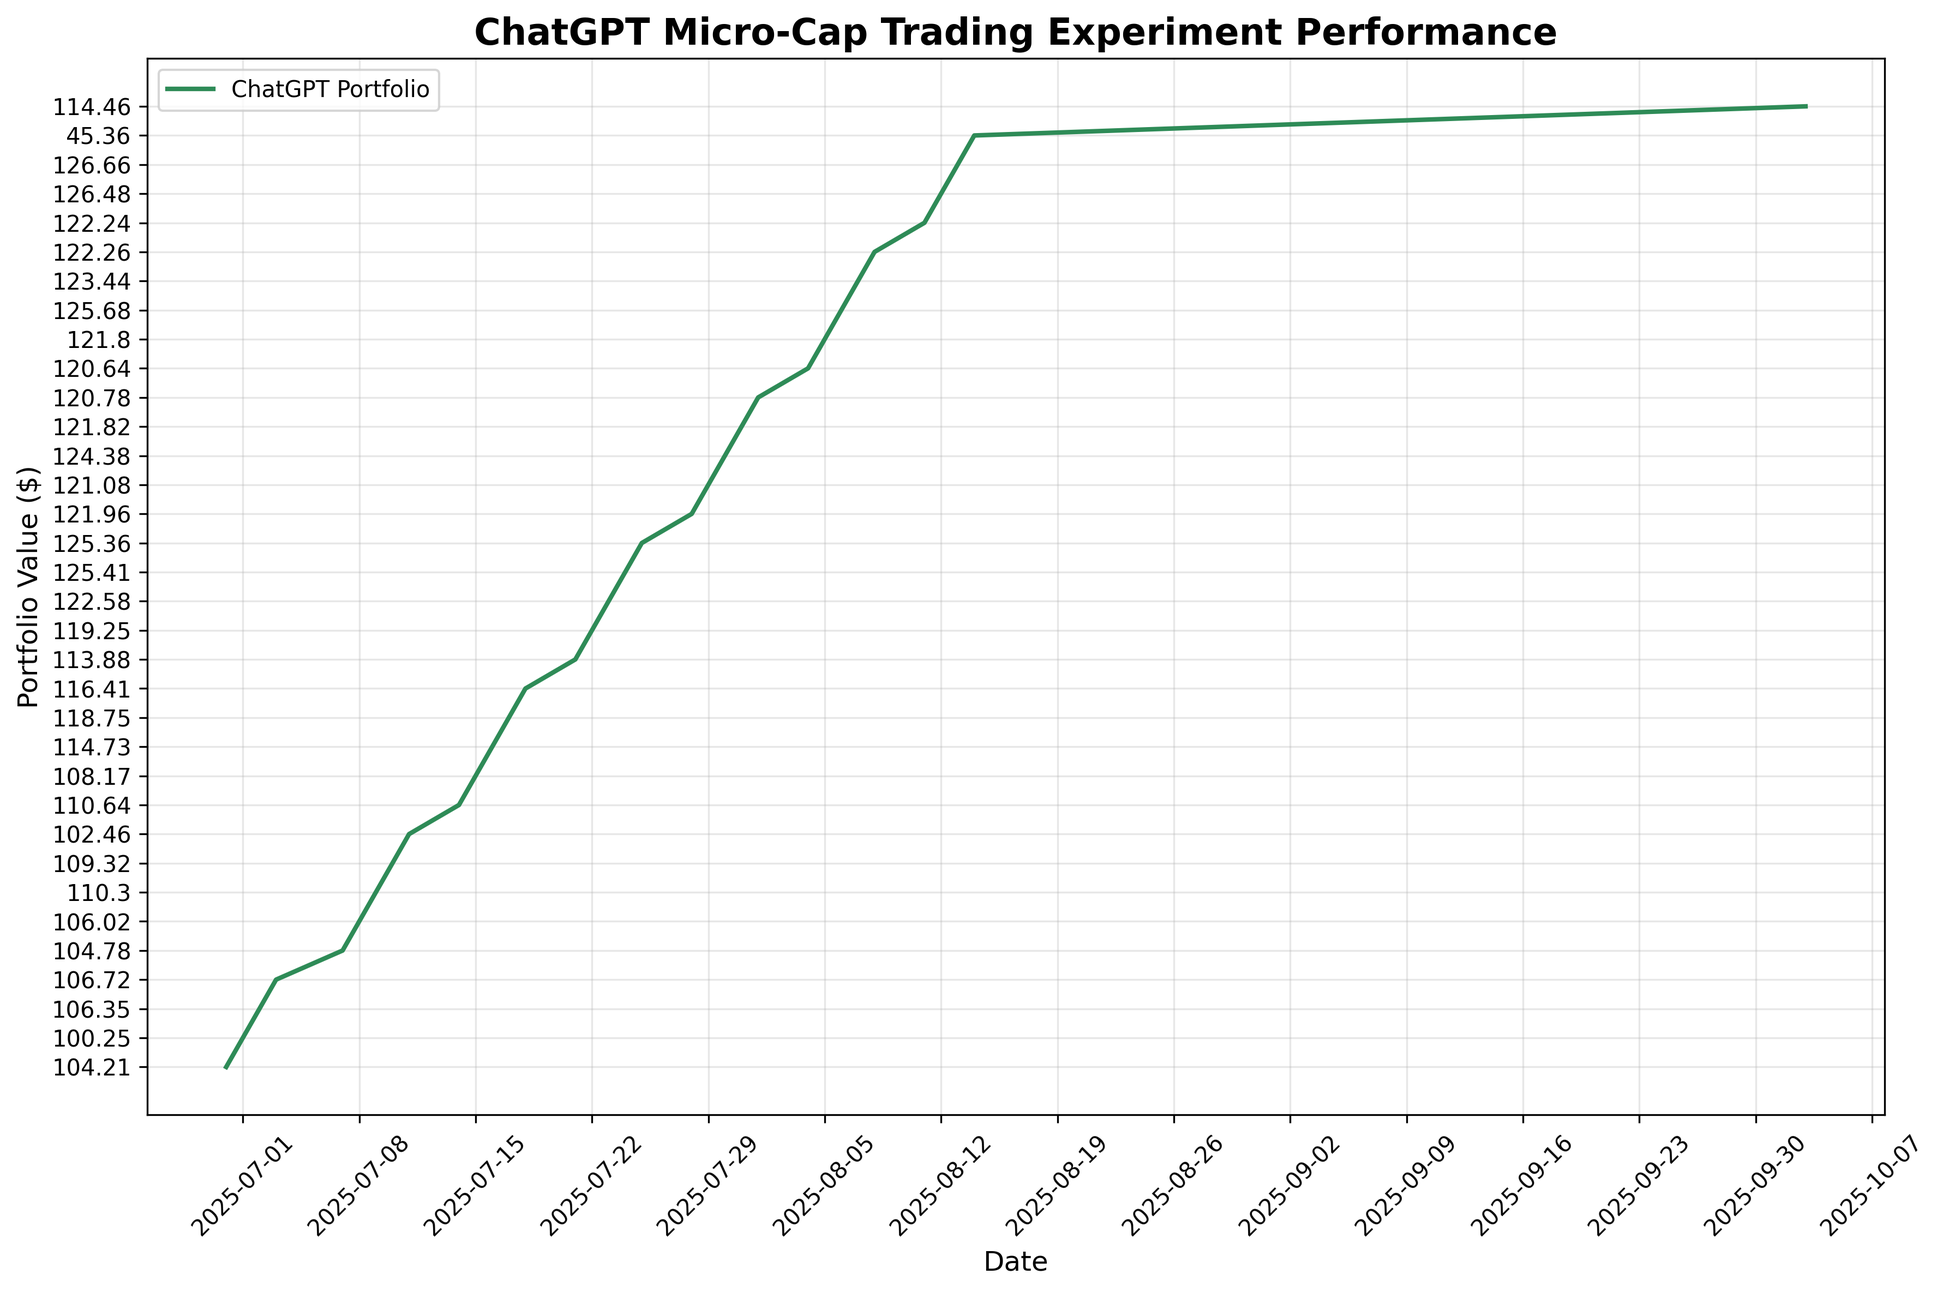
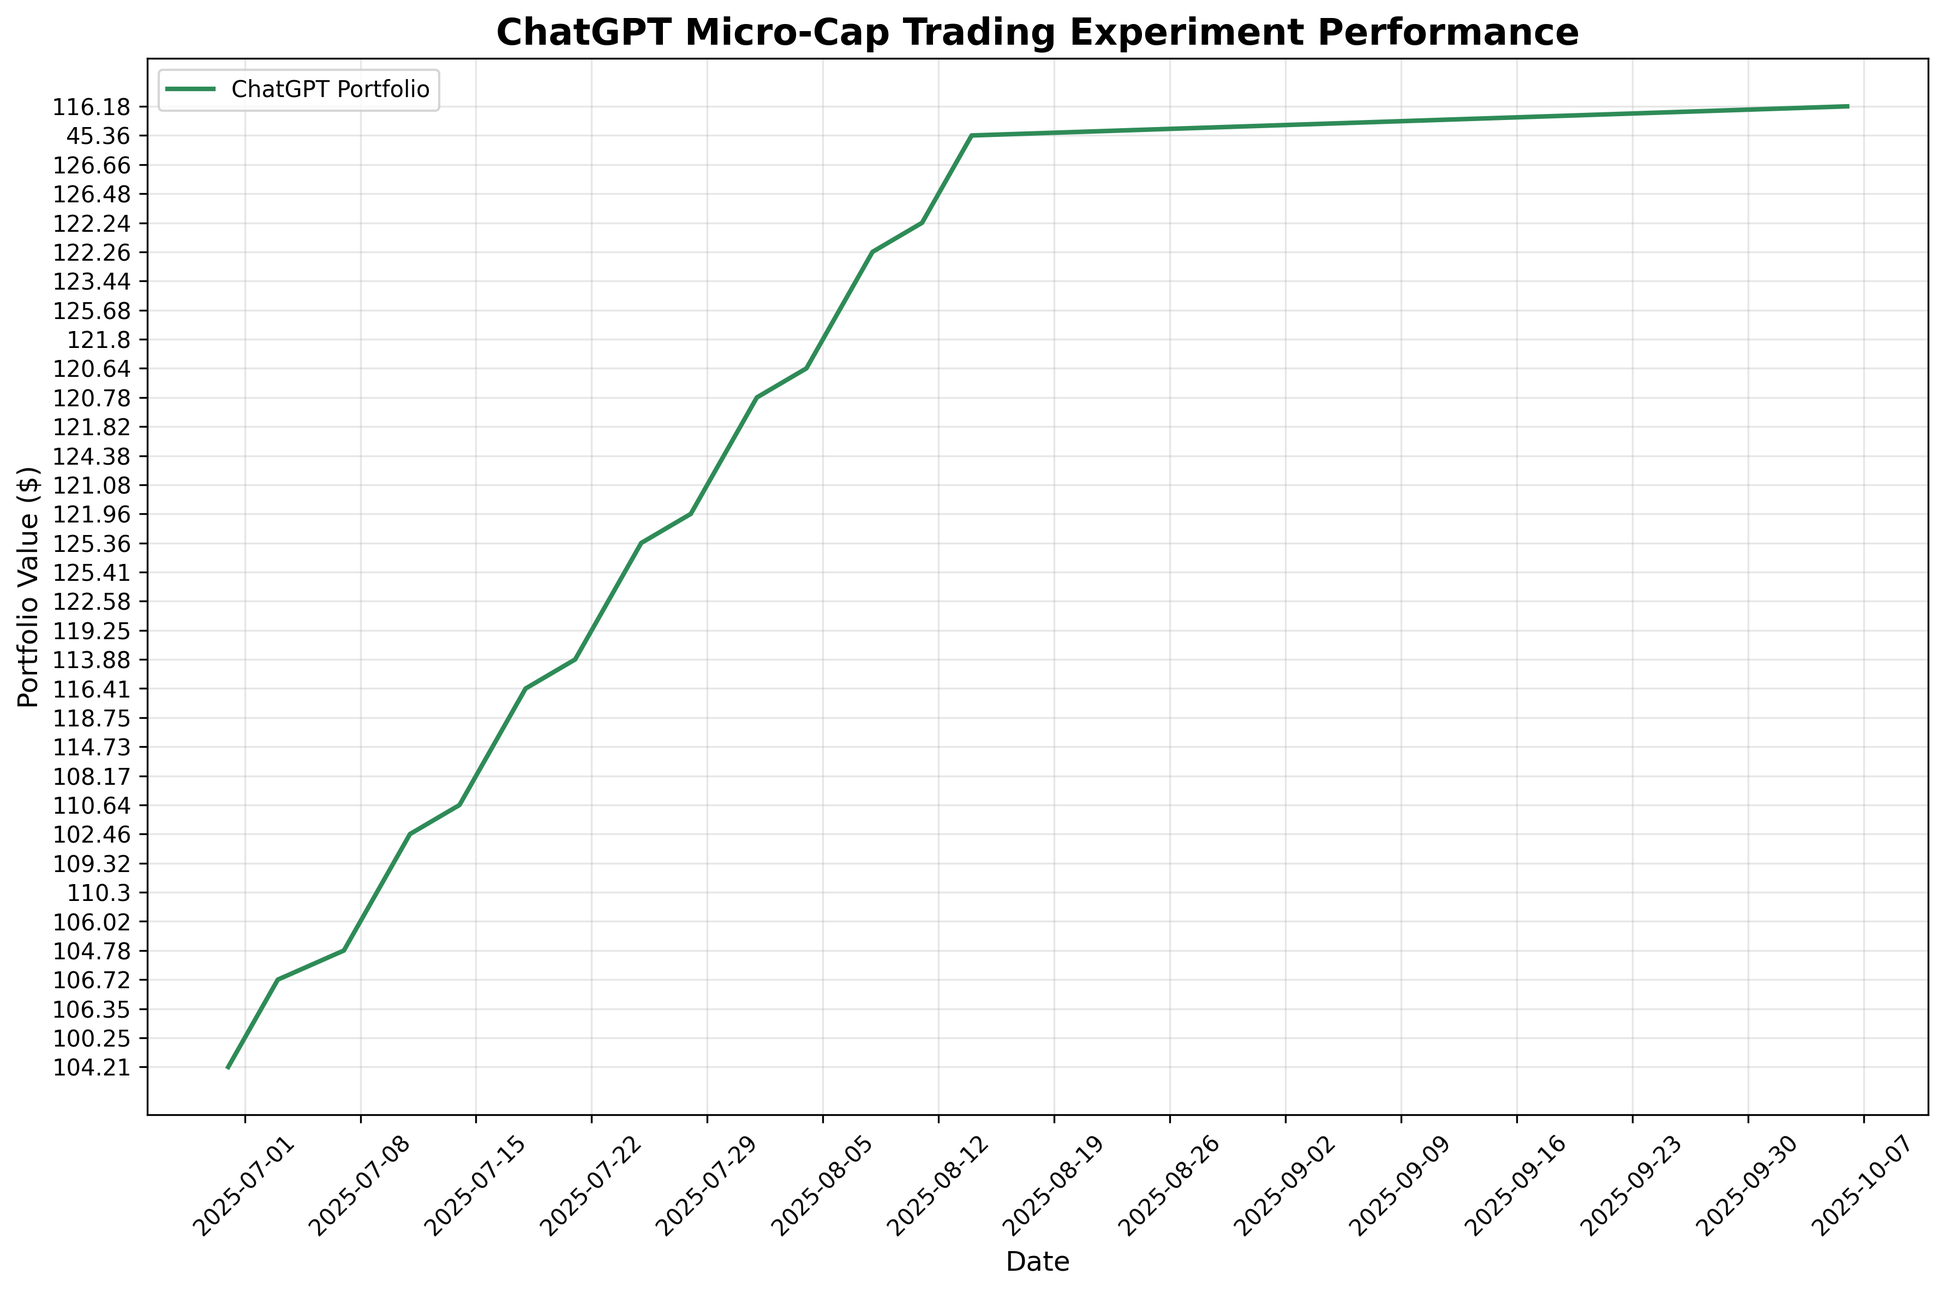
deploy: e15cad030d70fb3fbb51f9df6e22fa70c2f175c0

diff --git a/index.html b/index.html
@@ -105,7 +105,7 @@
                 <div class="stat-label">Total Trades</div>
             </div>
             <div class="stat-card">
-                <div class="stat-value" id="last-updated">2025-10-03</div>
+                <div class="stat-value" id="last-updated">2025-10-06</div>
                 <div class="stat-label">Last Updated</div>
             </div>
         </div>
@@ -160,7 +160,7 @@
     
     <script>
         // Portfolio data
-        const portfolioData = JSON.parse("[{&quot;Date&quot;: &quot;2025-08-11&quot;, &quot;Ticker&quot;: &quot;ABEO&quot;, &quot;Shares&quot;: 4.0, &quot;Buy Price&quot;: 5.77, &quot;Cost Basis&quot;: 23.08, &quot;Stop Loss&quot;: 4.9, &quot;Current Price&quot;: 6.28, &quot;Total Value&quot;: 25.12, &quot;PnL&quot;: 2.04, &quot;Action&quot;: &quot;HOLD&quot;, &quot;Cash Balance&quot;: NaN, &quot;Total Equity&quot;: NaN}, {&quot;Date&quot;: &quot;2025-08-11&quot;, &quot;Ticker&quot;: &quot;ACTU&quot;, &quot;Shares&quot;: 6.0, &quot;Buy Price&quot;: 5.75, &quot;Cost Basis&quot;: 34.5, &quot;Stop Loss&quot;: 4.89, &quot;Current Price&quot;: 8.01, &quot;Total Value&quot;: 48.06, &quot;PnL&quot;: 13.56, &quot;Action&quot;: &quot;HOLD&quot;, &quot;Cash Balance&quot;: NaN, &quot;Total Equity&quot;: NaN}, {&quot;Date&quot;: &quot;2025-08-11&quot;, &quot;Ticker&quot;: &quot;ESPR&quot;, &quot;Shares&quot;: 2.0, &quot;Buy Price&quot;: 1.91, &quot;Cost Basis&quot;: 3.82, &quot;Stop Loss&quot;: 1.6, &quot;Current Price&quot;: 1.85, &quot;Total Value&quot;: 3.7, &quot;PnL&quot;: -0.12, &quot;Action&quot;: &quot;HOLD&quot;, &quot;Cash Balance&quot;: NaN, &quot;Total Equity&quot;: NaN}, {&quot;Date&quot;: &quot;2025-08-11&quot;, &quot;Ticker&quot;: &quot;TOTAL&quot;, &quot;Shares&quot;: NaN, &quot;Buy Price&quot;: NaN, &quot;Cost Basis&quot;: NaN, &quot;Stop Loss&quot;: NaN, &quot;Current Price&quot;: NaN, &quot;Total Value&quot;: 76.88, &quot;PnL&quot;: 15.48, &quot;Action&quot;: NaN, &quot;Cash Balance&quot;: 45.36, &quot;Total Equity&quot;: &quot;122.24&quot;}, {&quot;Date&quot;: &quot;2025-08-12&quot;, &quot;Ticker&quot;: &quot;ABEO&quot;, &quot;Shares&quot;: 4.0, &quot;Buy Price&quot;: 5.77, &quot;Cost Basis&quot;: 23.08, &quot;Stop Loss&quot;: 4.9, &quot;Current Price&quot;: 6.38, &quot;Total Value&quot;: 25.52, &quot;PnL&quot;: 2.44, &quot;Action&quot;: &quot;HOLD&quot;, &quot;Cash Balance&quot;: NaN, &quot;Total Equity&quot;: NaN}, {&quot;Date&quot;: &quot;2025-08-12&quot;, &quot;Ticker&quot;: &quot;ACTU&quot;, &quot;Shares&quot;: 6.0, &quot;Buy Price&quot;: 5.75, &quot;Cost Basis&quot;: 34.5, &quot;Stop Loss&quot;: 4.89, &quot;Current Price&quot;: 8.67, &quot;Total Value&quot;: 52.02, &quot;PnL&quot;: 17.52, &quot;Action&quot;: &quot;HOLD&quot;, &quot;Cash Balance&quot;: NaN, &quot;Total Equity&quot;: NaN}, {&quot;Date&quot;: &quot;2025-08-12&quot;, &quot;Ticker&quot;: &quot;ESPR&quot;, &quot;Shares&quot;: 2.0, &quot;Buy Price&quot;: 1.91, &quot;Cost Basis&quot;: 3.82, &quot;Stop Loss&quot;: 1.6, &quot;Current Price&quot;: 1.79, &quot;Total Value&quot;: 3.58, &quot;PnL&quot;: -0.24, &quot;Action&quot;: &quot;HOLD&quot;, &quot;Cash Balance&quot;: NaN, &quot;Total Equity&quot;: NaN}, {&quot;Date&quot;: &quot;2025-08-12&quot;, &quot;Ticker&quot;: &quot;TOTAL&quot;, &quot;Shares&quot;: NaN, &quot;Buy Price&quot;: NaN, &quot;Cost Basis&quot;: NaN, &quot;Stop Loss&quot;: NaN, &quot;Current Price&quot;: NaN, &quot;Total Value&quot;: 81.12, &quot;PnL&quot;: 19.72, &quot;Action&quot;: NaN, &quot;Cash Balance&quot;: 45.36, &quot;Total Equity&quot;: &quot;126.48&quot;}, {&quot;Date&quot;: &quot;2025-08-13&quot;, &quot;Ticker&quot;: &quot;ABEO&quot;, &quot;Shares&quot;: 4.0, &quot;Buy Price&quot;: 5.77, &quot;Cost Basis&quot;: 23.08, &quot;Stop Loss&quot;: 4.9, &quot;Current Price&quot;: 6.56, &quot;Total Value&quot;: 26.24, &quot;PnL&quot;: 3.16, &quot;Action&quot;: &quot;HOLD&quot;, &quot;Cash Balance&quot;: NaN, &quot;Total Equity&quot;: NaN}, {&quot;Date&quot;: &quot;2025-08-13&quot;, &quot;Ticker&quot;: &quot;ACTU&quot;, &quot;Shares&quot;: 6.0, &quot;Buy Price&quot;: 5.75, &quot;Cost Basis&quot;: 34.5, &quot;Stop Loss&quot;: 4.89, &quot;Current Price&quot;: 8.53, &quot;Total Value&quot;: 51.18, &quot;PnL&quot;: 16.68, &quot;Action&quot;: &quot;HOLD&quot;, &quot;Cash Balance&quot;: NaN, &quot;Total Equity&quot;: NaN}, {&quot;Date&quot;: &quot;2025-08-13&quot;, &quot;Ticker&quot;: &quot;ESPR&quot;, &quot;Shares&quot;: 2.0, &quot;Buy Price&quot;: 1.91, &quot;Cost Basis&quot;: 3.82, &quot;Stop Loss&quot;: 1.6, &quot;Current Price&quot;: 1.94, &quot;Total Value&quot;: 3.88, &quot;PnL&quot;: 0.06, &quot;Action&quot;: &quot;HOLD&quot;, &quot;Cash Balance&quot;: NaN, &quot;Total Equity&quot;: NaN}, {&quot;Date&quot;: &quot;2025-08-13&quot;, &quot;Ticker&quot;: &quot;TOTAL&quot;, &quot;Shares&quot;: NaN, &quot;Buy Price&quot;: NaN, &quot;Cost Basis&quot;: NaN, &quot;Stop Loss&quot;: NaN, &quot;Current Price&quot;: NaN, &quot;Total Value&quot;: 81.3, &quot;PnL&quot;: 19.9, &quot;Action&quot;: NaN, &quot;Cash Balance&quot;: 45.36, &quot;Total Equity&quot;: &quot;126.66&quot;}, {&quot;Date&quot;: &quot;2025-08-14&quot;, &quot;Ticker&quot;: &quot;ABEO&quot;, &quot;Shares&quot;: 4.0, &quot;Buy Price&quot;: 5.77, &quot;Cost Basis&quot;: 23.08, &quot;Stop Loss&quot;: 4.9, &quot;Current Price&quot;: NaN, &quot;Total Value&quot;: NaN, &quot;PnL&quot;: NaN, &quot;Action&quot;: &quot;NO DATA&quot;, &quot;Cash Balance&quot;: NaN, &quot;Total Equity&quot;: NaN}, {&quot;Date&quot;: &quot;2025-08-14&quot;, &quot;Ticker&quot;: &quot;ACTU&quot;, &quot;Shares&quot;: 6.0, &quot;Buy Price&quot;: 5.75, &quot;Cost Basis&quot;: 34.5, &quot;Stop Loss&quot;: 4.89, &quot;Current Price&quot;: NaN, &quot;Total Value&quot;: NaN, &quot;PnL&quot;: NaN, &quot;Action&quot;: &quot;NO DATA&quot;, &quot;Cash Balance&quot;: NaN, &quot;Total Equity&quot;: NaN}, {&quot;Date&quot;: &quot;2025-08-14&quot;, &quot;Ticker&quot;: &quot;ESPR&quot;, &quot;Shares&quot;: 2.0, &quot;Buy Price&quot;: 1.91, &quot;Cost Basis&quot;: 3.82, &quot;Stop Loss&quot;: 1.6, &quot;Current Price&quot;: NaN, &quot;Total Value&quot;: NaN, &quot;PnL&quot;: NaN, &quot;Action&quot;: &quot;NO DATA&quot;, &quot;Cash Balance&quot;: NaN, &quot;Total Equity&quot;: NaN}, {&quot;Date&quot;: &quot;2025-08-14&quot;, &quot;Ticker&quot;: &quot;TOTAL&quot;, &quot;Shares&quot;: NaN, &quot;Buy Price&quot;: NaN, &quot;Cost Basis&quot;: NaN, &quot;Stop Loss&quot;: NaN, &quot;Current Price&quot;: NaN, &quot;Total Value&quot;: 0.0, &quot;PnL&quot;: 0.0, &quot;Action&quot;: NaN, &quot;Cash Balance&quot;: 45.36, &quot;Total Equity&quot;: &quot;45.36&quot;}, {&quot;Date&quot;: &quot;2025-10-03&quot;, &quot;Ticker&quot;: &quot;ABEO&quot;, &quot;Shares&quot;: 4.0, &quot;Buy Price&quot;: 5.77, &quot;Cost Basis&quot;: 23.08, &quot;Stop Loss&quot;: 4.9, &quot;Current Price&quot;: 5.38, &quot;Total Value&quot;: 21.52, &quot;PnL&quot;: -1.56, &quot;Action&quot;: &quot;HOLD&quot;, &quot;Cash Balance&quot;: NaN, &quot;Total Equity&quot;: NaN}, {&quot;Date&quot;: &quot;2025-10-03&quot;, &quot;Ticker&quot;: &quot;ACTU&quot;, &quot;Shares&quot;: 6.0, &quot;Buy Price&quot;: 5.75, &quot;Cost Basis&quot;: 34.5, &quot;Stop Loss&quot;: 4.89, &quot;Current Price&quot;: 6.86, &quot;Total Value&quot;: 41.16, &quot;PnL&quot;: 6.66, &quot;Action&quot;: &quot;HOLD&quot;, &quot;Cash Balance&quot;: NaN, &quot;Total Equity&quot;: NaN}, {&quot;Date&quot;: &quot;2025-10-03&quot;, &quot;Ticker&quot;: &quot;ESPR&quot;, &quot;Shares&quot;: 2.0, &quot;Buy Price&quot;: 1.91, &quot;Cost Basis&quot;: 3.82, &quot;Stop Loss&quot;: 1.6, &quot;Current Price&quot;: 3.21, &quot;Total Value&quot;: 6.42, &quot;PnL&quot;: 2.6, &quot;Action&quot;: &quot;HOLD&quot;, &quot;Cash Balance&quot;: NaN, &quot;Total Equity&quot;: NaN}, {&quot;Date&quot;: &quot;2025-10-03&quot;, &quot;Ticker&quot;: &quot;TOTAL&quot;, &quot;Shares&quot;: NaN, &quot;Buy Price&quot;: NaN, &quot;Cost Basis&quot;: NaN, &quot;Stop Loss&quot;: NaN, &quot;Current Price&quot;: NaN, &quot;Total Value&quot;: 69.1, &quot;PnL&quot;: 7.7, &quot;Action&quot;: NaN, &quot;Cash Balance&quot;: 45.36, &quot;Total Equity&quot;: &quot;114.46&quot;}]");
+        const portfolioData = JSON.parse("[{&quot;Date&quot;: &quot;2025-08-11&quot;, &quot;Ticker&quot;: &quot;ABEO&quot;, &quot;Shares&quot;: 4.0, &quot;Buy Price&quot;: 5.77, &quot;Cost Basis&quot;: 23.08, &quot;Stop Loss&quot;: 4.9, &quot;Current Price&quot;: 6.28, &quot;Total Value&quot;: 25.12, &quot;PnL&quot;: 2.04, &quot;Action&quot;: &quot;HOLD&quot;, &quot;Cash Balance&quot;: NaN, &quot;Total Equity&quot;: NaN}, {&quot;Date&quot;: &quot;2025-08-11&quot;, &quot;Ticker&quot;: &quot;ACTU&quot;, &quot;Shares&quot;: 6.0, &quot;Buy Price&quot;: 5.75, &quot;Cost Basis&quot;: 34.5, &quot;Stop Loss&quot;: 4.89, &quot;Current Price&quot;: 8.01, &quot;Total Value&quot;: 48.06, &quot;PnL&quot;: 13.56, &quot;Action&quot;: &quot;HOLD&quot;, &quot;Cash Balance&quot;: NaN, &quot;Total Equity&quot;: NaN}, {&quot;Date&quot;: &quot;2025-08-11&quot;, &quot;Ticker&quot;: &quot;ESPR&quot;, &quot;Shares&quot;: 2.0, &quot;Buy Price&quot;: 1.91, &quot;Cost Basis&quot;: 3.82, &quot;Stop Loss&quot;: 1.6, &quot;Current Price&quot;: 1.85, &quot;Total Value&quot;: 3.7, &quot;PnL&quot;: -0.12, &quot;Action&quot;: &quot;HOLD&quot;, &quot;Cash Balance&quot;: NaN, &quot;Total Equity&quot;: NaN}, {&quot;Date&quot;: &quot;2025-08-11&quot;, &quot;Ticker&quot;: &quot;TOTAL&quot;, &quot;Shares&quot;: NaN, &quot;Buy Price&quot;: NaN, &quot;Cost Basis&quot;: NaN, &quot;Stop Loss&quot;: NaN, &quot;Current Price&quot;: NaN, &quot;Total Value&quot;: 76.88, &quot;PnL&quot;: 15.48, &quot;Action&quot;: NaN, &quot;Cash Balance&quot;: 45.36, &quot;Total Equity&quot;: &quot;122.24&quot;}, {&quot;Date&quot;: &quot;2025-08-12&quot;, &quot;Ticker&quot;: &quot;ABEO&quot;, &quot;Shares&quot;: 4.0, &quot;Buy Price&quot;: 5.77, &quot;Cost Basis&quot;: 23.08, &quot;Stop Loss&quot;: 4.9, &quot;Current Price&quot;: 6.38, &quot;Total Value&quot;: 25.52, &quot;PnL&quot;: 2.44, &quot;Action&quot;: &quot;HOLD&quot;, &quot;Cash Balance&quot;: NaN, &quot;Total Equity&quot;: NaN}, {&quot;Date&quot;: &quot;2025-08-12&quot;, &quot;Ticker&quot;: &quot;ACTU&quot;, &quot;Shares&quot;: 6.0, &quot;Buy Price&quot;: 5.75, &quot;Cost Basis&quot;: 34.5, &quot;Stop Loss&quot;: 4.89, &quot;Current Price&quot;: 8.67, &quot;Total Value&quot;: 52.02, &quot;PnL&quot;: 17.52, &quot;Action&quot;: &quot;HOLD&quot;, &quot;Cash Balance&quot;: NaN, &quot;Total Equity&quot;: NaN}, {&quot;Date&quot;: &quot;2025-08-12&quot;, &quot;Ticker&quot;: &quot;ESPR&quot;, &quot;Shares&quot;: 2.0, &quot;Buy Price&quot;: 1.91, &quot;Cost Basis&quot;: 3.82, &quot;Stop Loss&quot;: 1.6, &quot;Current Price&quot;: 1.79, &quot;Total Value&quot;: 3.58, &quot;PnL&quot;: -0.24, &quot;Action&quot;: &quot;HOLD&quot;, &quot;Cash Balance&quot;: NaN, &quot;Total Equity&quot;: NaN}, {&quot;Date&quot;: &quot;2025-08-12&quot;, &quot;Ticker&quot;: &quot;TOTAL&quot;, &quot;Shares&quot;: NaN, &quot;Buy Price&quot;: NaN, &quot;Cost Basis&quot;: NaN, &quot;Stop Loss&quot;: NaN, &quot;Current Price&quot;: NaN, &quot;Total Value&quot;: 81.12, &quot;PnL&quot;: 19.72, &quot;Action&quot;: NaN, &quot;Cash Balance&quot;: 45.36, &quot;Total Equity&quot;: &quot;126.48&quot;}, {&quot;Date&quot;: &quot;2025-08-13&quot;, &quot;Ticker&quot;: &quot;ABEO&quot;, &quot;Shares&quot;: 4.0, &quot;Buy Price&quot;: 5.77, &quot;Cost Basis&quot;: 23.08, &quot;Stop Loss&quot;: 4.9, &quot;Current Price&quot;: 6.56, &quot;Total Value&quot;: 26.24, &quot;PnL&quot;: 3.16, &quot;Action&quot;: &quot;HOLD&quot;, &quot;Cash Balance&quot;: NaN, &quot;Total Equity&quot;: NaN}, {&quot;Date&quot;: &quot;2025-08-13&quot;, &quot;Ticker&quot;: &quot;ACTU&quot;, &quot;Shares&quot;: 6.0, &quot;Buy Price&quot;: 5.75, &quot;Cost Basis&quot;: 34.5, &quot;Stop Loss&quot;: 4.89, &quot;Current Price&quot;: 8.53, &quot;Total Value&quot;: 51.18, &quot;PnL&quot;: 16.68, &quot;Action&quot;: &quot;HOLD&quot;, &quot;Cash Balance&quot;: NaN, &quot;Total Equity&quot;: NaN}, {&quot;Date&quot;: &quot;2025-08-13&quot;, &quot;Ticker&quot;: &quot;ESPR&quot;, &quot;Shares&quot;: 2.0, &quot;Buy Price&quot;: 1.91, &quot;Cost Basis&quot;: 3.82, &quot;Stop Loss&quot;: 1.6, &quot;Current Price&quot;: 1.94, &quot;Total Value&quot;: 3.88, &quot;PnL&quot;: 0.06, &quot;Action&quot;: &quot;HOLD&quot;, &quot;Cash Balance&quot;: NaN, &quot;Total Equity&quot;: NaN}, {&quot;Date&quot;: &quot;2025-08-13&quot;, &quot;Ticker&quot;: &quot;TOTAL&quot;, &quot;Shares&quot;: NaN, &quot;Buy Price&quot;: NaN, &quot;Cost Basis&quot;: NaN, &quot;Stop Loss&quot;: NaN, &quot;Current Price&quot;: NaN, &quot;Total Value&quot;: 81.3, &quot;PnL&quot;: 19.9, &quot;Action&quot;: NaN, &quot;Cash Balance&quot;: 45.36, &quot;Total Equity&quot;: &quot;126.66&quot;}, {&quot;Date&quot;: &quot;2025-08-14&quot;, &quot;Ticker&quot;: &quot;ABEO&quot;, &quot;Shares&quot;: 4.0, &quot;Buy Price&quot;: 5.77, &quot;Cost Basis&quot;: 23.08, &quot;Stop Loss&quot;: 4.9, &quot;Current Price&quot;: NaN, &quot;Total Value&quot;: NaN, &quot;PnL&quot;: NaN, &quot;Action&quot;: &quot;NO DATA&quot;, &quot;Cash Balance&quot;: NaN, &quot;Total Equity&quot;: NaN}, {&quot;Date&quot;: &quot;2025-08-14&quot;, &quot;Ticker&quot;: &quot;ACTU&quot;, &quot;Shares&quot;: 6.0, &quot;Buy Price&quot;: 5.75, &quot;Cost Basis&quot;: 34.5, &quot;Stop Loss&quot;: 4.89, &quot;Current Price&quot;: NaN, &quot;Total Value&quot;: NaN, &quot;PnL&quot;: NaN, &quot;Action&quot;: &quot;NO DATA&quot;, &quot;Cash Balance&quot;: NaN, &quot;Total Equity&quot;: NaN}, {&quot;Date&quot;: &quot;2025-08-14&quot;, &quot;Ticker&quot;: &quot;ESPR&quot;, &quot;Shares&quot;: 2.0, &quot;Buy Price&quot;: 1.91, &quot;Cost Basis&quot;: 3.82, &quot;Stop Loss&quot;: 1.6, &quot;Current Price&quot;: NaN, &quot;Total Value&quot;: NaN, &quot;PnL&quot;: NaN, &quot;Action&quot;: &quot;NO DATA&quot;, &quot;Cash Balance&quot;: NaN, &quot;Total Equity&quot;: NaN}, {&quot;Date&quot;: &quot;2025-08-14&quot;, &quot;Ticker&quot;: &quot;TOTAL&quot;, &quot;Shares&quot;: NaN, &quot;Buy Price&quot;: NaN, &quot;Cost Basis&quot;: NaN, &quot;Stop Loss&quot;: NaN, &quot;Current Price&quot;: NaN, &quot;Total Value&quot;: 0.0, &quot;PnL&quot;: 0.0, &quot;Action&quot;: NaN, &quot;Cash Balance&quot;: 45.36, &quot;Total Equity&quot;: &quot;45.36&quot;}, {&quot;Date&quot;: &quot;2025-10-06&quot;, &quot;Ticker&quot;: &quot;ABEO&quot;, &quot;Shares&quot;: 4.0, &quot;Buy Price&quot;: 5.77, &quot;Cost Basis&quot;: 23.08, &quot;Stop Loss&quot;: 4.9, &quot;Current Price&quot;: 5.44, &quot;Total Value&quot;: 21.76, &quot;PnL&quot;: -1.32, &quot;Action&quot;: &quot;HOLD&quot;, &quot;Cash Balance&quot;: NaN, &quot;Total Equity&quot;: NaN}, {&quot;Date&quot;: &quot;2025-10-06&quot;, &quot;Ticker&quot;: &quot;ACTU&quot;, &quot;Shares&quot;: 6.0, &quot;Buy Price&quot;: 5.75, &quot;Cost Basis&quot;: 34.5, &quot;Stop Loss&quot;: 4.89, &quot;Current Price&quot;: 7.06, &quot;Total Value&quot;: 42.36, &quot;PnL&quot;: 7.86, &quot;Action&quot;: &quot;HOLD&quot;, &quot;Cash Balance&quot;: NaN, &quot;Total Equity&quot;: NaN}, {&quot;Date&quot;: &quot;2025-10-06&quot;, &quot;Ticker&quot;: &quot;ESPR&quot;, &quot;Shares&quot;: 2.0, &quot;Buy Price&quot;: 1.91, &quot;Cost Basis&quot;: 3.82, &quot;Stop Loss&quot;: 1.6, &quot;Current Price&quot;: 3.35, &quot;Total Value&quot;: 6.7, &quot;PnL&quot;: 2.88, &quot;Action&quot;: &quot;HOLD&quot;, &quot;Cash Balance&quot;: NaN, &quot;Total Equity&quot;: NaN}, {&quot;Date&quot;: &quot;2025-10-06&quot;, &quot;Ticker&quot;: &quot;TOTAL&quot;, &quot;Shares&quot;: NaN, &quot;Buy Price&quot;: NaN, &quot;Cost Basis&quot;: NaN, &quot;Stop Loss&quot;: NaN, &quot;Current Price&quot;: NaN, &quot;Total Value&quot;: 70.82, &quot;PnL&quot;: 9.42, &quot;Action&quot;: NaN, &quot;Cash Balance&quot;: 45.36, &quot;Total Equity&quot;: &quot;116.18&quot;}]");
         const tradeData = JSON.parse("[{&quot;Date&quot;: &quot;2025-07-07&quot;, &quot;Ticker&quot;: &quot;CSAI&quot;, &quot;Shares Bought&quot;: NaN, &quot;Buy Price&quot;: NaN, &quot;Cost Basis&quot;: 1.9, &quot;PnL&quot;: 5.7, &quot;Reason&quot;: &quot;MANUAL SELL - Rotated into AZTR&quot;, &quot;Shares Sold&quot;: 15.0, &quot;Sell Price&quot;: 2.28}, {&quot;Date&quot;: &quot;2025-07-08&quot;, &quot;Ticker&quot;: &quot;IINN&quot;, &quot;Shares Bought&quot;: 20.0, &quot;Buy Price&quot;: 1.5, &quot;Cost Basis&quot;: 30.0, &quot;PnL&quot;: 0.0, &quot;Reason&quot;: &quot;MANUAL BUY - New position&quot;, &quot;Shares Sold&quot;: NaN, &quot;Sell Price&quot;: NaN}, {&quot;Date&quot;: &quot;2025-07-21&quot;, &quot;Ticker&quot;: &quot;CADL&quot;, &quot;Shares Bought&quot;: NaN, &quot;Buy Price&quot;: NaN, &quot;Cost Basis&quot;: 25.2, &quot;PnL&quot;: 8.5, &quot;Reason&quot;: &quot;MANUAL SELL - GAIN CAPITAL FOR ACTU&quot;, &quot;Shares Sold&quot;: 5.0, &quot;Sell Price&quot;: 6.59}, {&quot;Date&quot;: &quot;2025-07-21&quot;, &quot;Ticker&quot;: &quot;ACTU&quot;, &quot;Shares Bought&quot;: 6.0, &quot;Buy Price&quot;: 5.75, &quot;Cost Basis&quot;: 34.5, &quot;PnL&quot;: 0.0, &quot;Reason&quot;: &quot;MANUAL BUY - New position&quot;, &quot;Shares Sold&quot;: NaN, &quot;Sell Price&quot;: NaN}, {&quot;Date&quot;: &quot;2025-07-28&quot;, &quot;Ticker&quot;: &quot;IINN&quot;, &quot;Shares Bought&quot;: NaN, &quot;Buy Price&quot;: NaN, &quot;Cost Basis&quot;: 9.0, &quot;PnL&quot;: -0.5400000000000009, &quot;Reason&quot;: &quot;MANUAL SELL - POSITION REDUCTION&quot;, &quot;Shares Sold&quot;: 6.0, &quot;Sell Price&quot;: 1.41}, {&quot;Date&quot;: &quot;2025-07-29&quot;, &quot;Ticker&quot;: &quot;AZTR&quot;, &quot;Shares Bought&quot;: NaN, &quot;Buy Price&quot;: NaN, &quot;Cost Basis&quot;: 13.75, &quot;PnL&quot;: -2.75, &quot;Reason&quot;: &quot;MANUAL SELL - DILUTION RISK&quot;, &quot;Shares Sold&quot;: 55.0, &quot;Sell Price&quot;: 0.2}, {&quot;Date&quot;: &quot;2025-08-01&quot;, &quot;Ticker&quot;: &quot;IINN&quot;, &quot;Shares Bought&quot;: 2.0, &quot;Buy Price&quot;: 1.74, &quot;Cost Basis&quot;: 3.48, &quot;PnL&quot;: 0.0, &quot;Reason&quot;: &quot;MANUAL BUY - New position&quot;, &quot;Shares Sold&quot;: NaN, &quot;Sell Price&quot;: NaN}, {&quot;Date&quot;: &quot;2025-08-01&quot;, &quot;Ticker&quot;: &quot;ABEO&quot;, &quot;Shares Bought&quot;: NaN, &quot;Buy Price&quot;: NaN, &quot;Cost Basis&quot;: 11.54, &quot;PnL&quot;: 1.200000000000001, &quot;Reason&quot;: &quot;MANUAL SELL - TRIM AFTER SUPPORT LOSS&quot;, &quot;Shares Sold&quot;: 2.0, &quot;Sell Price&quot;: 6.37}, {&quot;Date&quot;: &quot;2025-08-07&quot;, &quot;Ticker&quot;: &quot;ESPR&quot;, &quot;Shares Bought&quot;: 2.0, &quot;Buy Price&quot;: 1.91, &quot;Cost Basis&quot;: 3.82, &quot;PnL&quot;: 0.0, &quot;Reason&quot;: &quot;MANUAL BUY - New position&quot;, &quot;Shares Sold&quot;: NaN, &quot;Sell Price&quot;: NaN}, {&quot;Date&quot;: &quot;2025-08-08&quot;, &quot;Ticker&quot;: &quot;IINN&quot;, &quot;Shares Bought&quot;: NaN, &quot;Buy Price&quot;: NaN, &quot;Cost Basis&quot;: 1.5, &quot;PnL&quot;: -6.4, &quot;Reason&quot;: &quot;AUTOMATED SELL - STOPLOSS TRIGGERED&quot;, &quot;Shares Sold&quot;: 16.0, &quot;Sell Price&quot;: 1.1}]");
         
         // Update total equity
